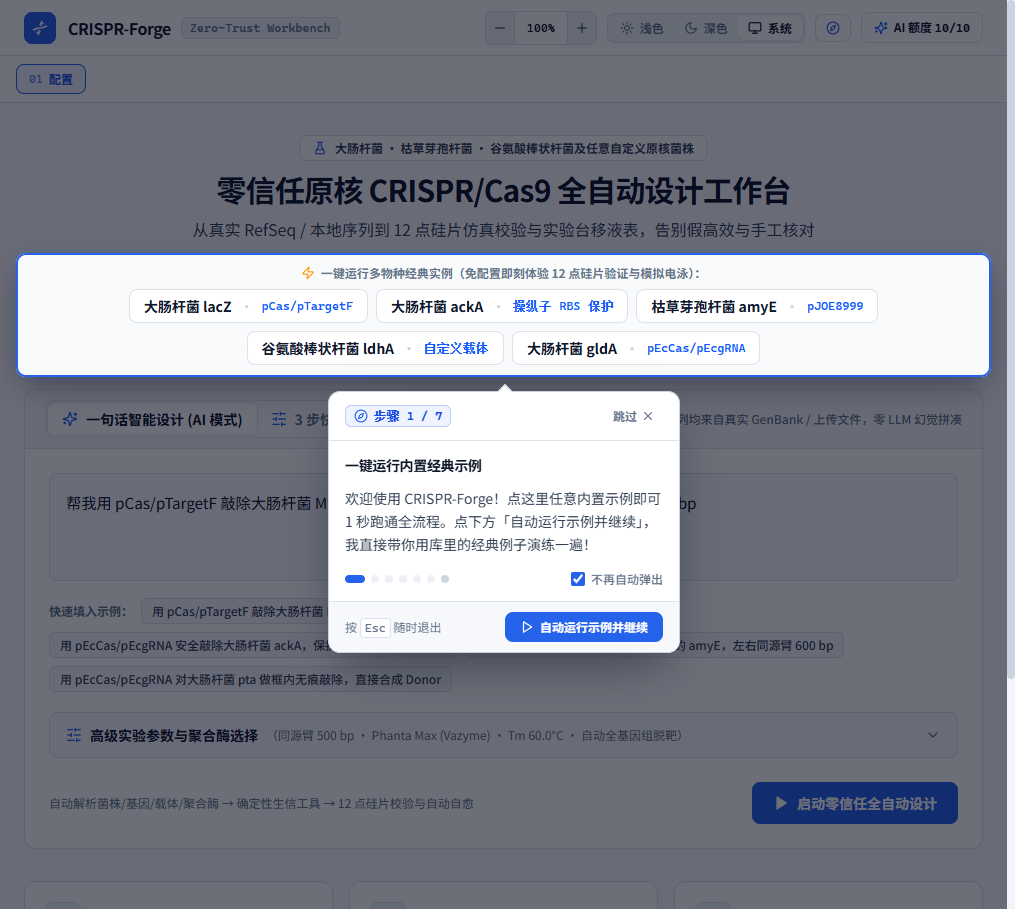
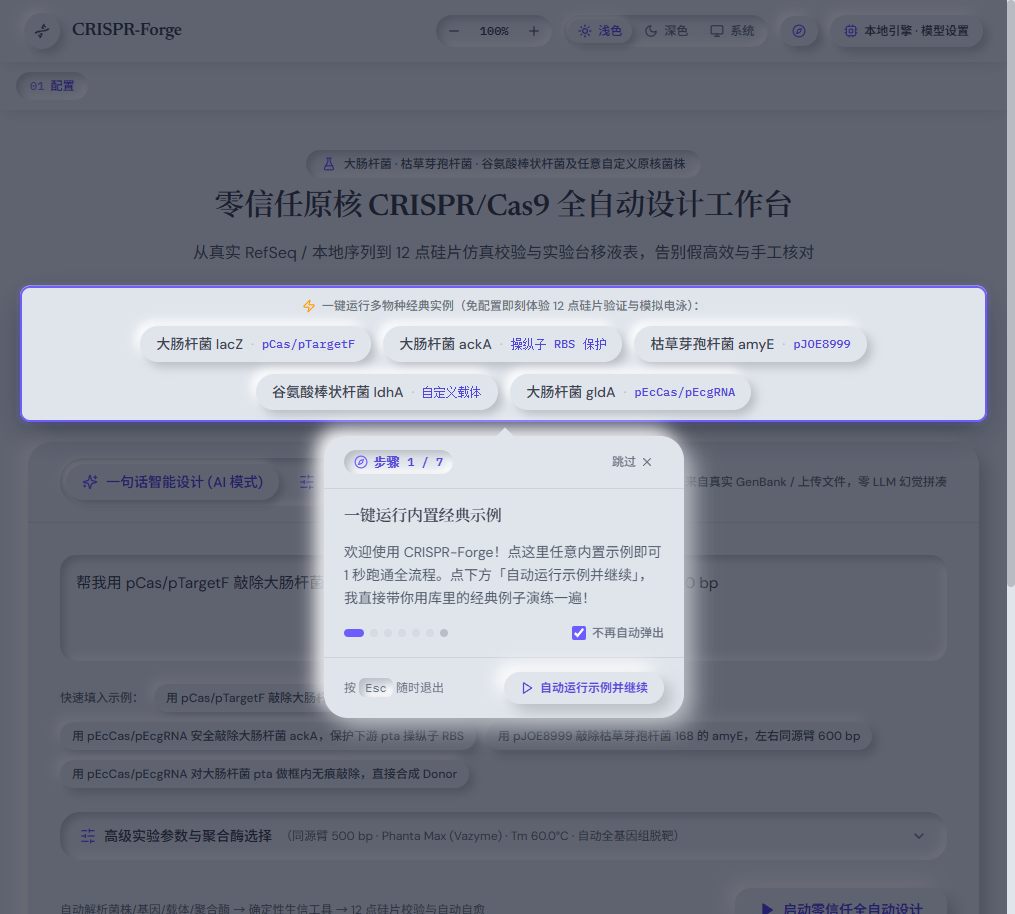
docs: refresh README and Day/Night Tactile Soft-UI screenshots

diff --git a/README.md b/README.md
@@ -25,59 +25,45 @@
 ### 4. 实验台零手算交付与可定制科研工作台
 - **15 款主流聚合酶可搜索大库 + 自定义聚合酶**：覆盖 Vazyme、TOYOBO、Takara、NEB、TransGen、Yeasen、Thermo 主力高保真与菌落酶，支持自定义品牌/延伸速率/变性与退火偏移，前后端联动精准计算反应程序；
 - **实时 NanoDrop 移液计算器**：填入实测浓度后实时换算微升数（支持等摩尔比 / 体积比切换），自动拦截 **`< 0.5 μL` 微量移液误差并给出精确预稀释比例**；
-- **交互式可视化与一键交付**：1×–20× 光标锚点平滑缩放/拖拽基因座图谱 + UV 模拟电泳胶图 + 一键导出 4 份带注释 `.gb` 图谱、引物订购 `.xlsx`、打印版 `.md` 文档与 `.zip` 完整实验包；
-- **高度自由的界面体验**：首次打开自动弹出**实时分步聚光灯指引**（顶栏指南针图标随时可重开），支持 **浅色（Cobalt）/ 深色（Obsidian）/ 跟随系统** 三态主题切换，以及 **`84%–120%` 按 `2%` 步进 / `1%` 无级滑块** 的细粒度字号调节。
-
----
-
-## 系统架构
-
-```mermaid
-flowchart TD
-    U["用户 / 外部 AI 客户端"] --> UI["Next.js 15 科研工作台 (浅色钴蓝 / 深色曜石)"]
-    U --> MCP["MCP Server (stdio)"]
-    UI --> API["FastAPI + SSE 进度流 + 免费额度门控"]
-    MCP --> REG["确定性生物工具注册表"]
-    API --> EXTRA["辅助解析服务 (RefSeq 菌株检索 / 空白载体 .gb 解析)"]
-    API --> ORCH["OpenAI 兼容自愈 Agent / 零 Key 确定性引擎"]
-    ORCH --> REG
-    REG --> K1["多物种基因组溯源 + 自动全基因组缓存"]
-    K1 --> K2["靶点筛选 + 载体规则排雷 + 同源臂与验证引物设计"]
-    K2 --> V["12 点零信任硅片仿真验证门"]
-    V -- "FAIL + repair_hint (最多 3 轮自愈)" --> ORCH
-    V -- "PASS" --> W["15+ 聚合酶动态移液计算器 + .gb / .xlsx / .zip 导出"]
-```
+- **交互式可视化与一键交付**：`1×–20×` 缩放/拖拽基因座图谱 + UV 模拟琼脂糖凝胶电泳 + 一键导出 4 份带注释 `.gb` 图谱、引物订购单 `.xlsx`、打印版 `.md` 文档与 `.zip` 完整实验包；
+- **日间 / 夜间统一新拟物工作台（Day & Night Tactile Soft-UI）**：采用浅色黏土浮雕（`#e0e5ec`）与深色哑光炭灰浮雕（`#1e222b`）双态立体软 UI，搭配 `Newsreader / Noto Serif SC`、`DM Sans / Noto Sans SC` 与 `IBM Plex Mono` 排版；提供左侧可折叠工作台大纲（`01`–`07` 模块与实时状态角标）、`浅色 / 深色 / 系统` 三态主题切换、顶栏 **「新手引导」** 聚光灯教程，以及 **`84%–120%` 按 `2%` 步进 / `1%` 无级滑块** 的细粒度字号调节。
 
 ---
 
 ## 完整使用说明（图文分步指引）
 
 ### 第 1 步：开屏交互指引与一键示例体验
-首次进入 [**https://crispr-forge.onrender.com/**](https://crispr-forge.onrender.com/) 时，系统会在页面对应位置自动弹出分步聚光灯指引（点击顶部指南针按钮可随时重开）。你可以直接点击卡片内的 **「自动运行示例并继续」**，立即使用库内置典型案例跑通完整流程；也可直接在首页输入框用一句话描述目标菌株、基因与载体系统。
+首次进入 [**https://crispr-forge.onrender.com/**](https://crispr-forge.onrender.com/) 时，系统会在页面对应位置自动弹出 7 步聚光灯指引（点击顶栏 **「新手引导」** 按钮可随时重开）。你可以直接点击卡片内的 **「自动运行示例并继续」**，立即使用库内置多物种经典案例跑通完整流程；也可直接在首页输入框用一句话描述目标菌株、基因与载体系统。
 
-![步骤 1：开屏分步聚光灯指引与内置经典示例](docs/screenshots/step1_onboarding_tour.png)
+![步骤 1：浅色新拟物首页、多物种快捷示例与 7 步聚光灯新手引导](docs/screenshots/step1_onboarding_tour.png)
 
 ### 第 2 步：菌株检索 / 上传、载体体系与高级参数配置
-结果生成后顶部表单会自动收敛为单行摘要，点击 **「修改参数 / 新建设计」** 即可切换至 **3 步快捷配置 / 上传序列**：
+结果生成后顶部表单会自动收敛为单行摘要，点击 **「修改参数 / 新建设计」** 即可切换至 **「3 步快捷配置 / 上传序列」**，并通过左侧工作台大纲栏在 `01`–`07` 各模块间快速跳转：
 - **菌株与基因**：输入中英文菌株名或 RefSeq 编号进行模糊联想，或切至上传模式拖入本地 `.gb / .fasta`；
 - **载体选择与自定义识别**：选用内置高频载体，或点选 **「自定义质粒」** 并拖入空白载体 `.gb` 文件自动提取克隆位点、抗性与验证引物并保存至本地常用库；
-- **高级参数与试剂库**：展开高级选项面板，在 15 款聚合酶（如 `KOD One`、`Phanta Max`）中快速搜索选择或添加自定义酶，并用滑块精确设定同源臂长度与边界保护策略。
+- **高级参数与试剂库**：展开 **「高级实验参数与聚合酶选择」**，在 15 款聚合酶（如 `KOD One`、`Phanta Max`）中快速搜索选择或添加自定义酶，并用精细滑块设定单侧同源臂长度、目标引物退火 Tm、菌落 PCR 最小条带差与全基因组脱靶索引策略。
 
-![步骤 2：载体体系选择、15 款聚合酶与同源臂参数滑块](docs/screenshots/step2_config_and_reagents.png)
+![步骤 2：载体体系卡片、15 款聚合酶选择与高级实验参数滑块](docs/screenshots/step2_config_and_reagents.png)
 
-### 第 3 步：12 点核验、交互式基因座图谱与 UV 模拟凝胶电泳
-运行完成后，顶部展示 12 项核验总览与 AI 解读摘要；在结果区可查看：
-- **可缩放基因座图谱**：支持 `Ctrl + 滚轮`（或开启滚轮直缩）、左键拖拽平移与底部概览条快速定位，悬停即可查看目的基因、`RBS / 安全保护区`、左右同源臂、切点及外侧验证引物坐标；
-- **UV 模拟琼脂糖凝胶电泳**：同屏直观比对 `M`、同源臂、拼接产物、野生型（`WT`）与突变体（`KO`）预期条带大小及条带差；在候选靶点列表切换不同方案时，图谱与电泳条带会同步重验刷新。
+### 第 3 步：可缩放基因座图谱与 UV 模拟凝胶电泳
+进入 `04 基因座与电泳` 视图，左侧图谱与右侧模拟胶图同屏联动：
+- **交互式可缩放基因组图谱**：提供 `全景 1×`、`聚焦敲除区`、`聚焦 Cas9 切点` 快捷定位，支持 `Ctrl + 滚轮`（或开启滚轮直缩）、左键拖拽平移与底部缩略导航条，悬停可查看目的基因、`RBS / 安全保护区`、左右同源臂、切点及外侧验证引物坐标；
+- **UV 模拟琼脂糖凝胶电泳**：保留暗场 `UV 302 nm · GelRed` 透射仿真腔体，同屏直观比对 `M`、`LA`、`RA`、`Donor`、`WT`、`KO` 与 `Int` 7 泳道条带大小、条带差及阳性敲除判读标准。
 
 ![步骤 3：可缩放基因座图谱、引物标尺与 7 泳道 UV 模拟凝胶电泳](docs/screenshots/step3_locus_and_gel.png)
 
 ### 第 4 步：实时移液换算、红色微量警戒与一键交付导出
-向下滚动至实验台移液计算器，填入胶回收或质粒实测浓度后即可切换等摩尔比 / 体积比模式并实时刷新反应体积：
-- **微量移液红标警报**：一旦任一组分所需体积 `< 0.5 μL`，页面会立即亮起红色预稀释警报并给出精确稀释方案，同时在顶部导航条对应区块显示 `!N` 红色计数角标防止漏看；
-- **多格式一键交付**：通过底部悬浮导出栏可一键下载含全套文件的 `.zip` 实验包、`.xlsx` 引物订购表、4 份带注释 SnapGene `.gb` 图谱及打印版 `.md` 文档。
+定位至 `06 NanoDrop移液` 实验台计算器，填入胶回收或质粒实测浓度后即可在 **「等摩尔比模式」** 与 **「经验体积比模式」** 间切换并实时刷新反应体积：
+- **微量移液红标警报**：一旦任一组分所需体积 `< 0.5 μL`，系统会立即亮起高对比度珊瑚红预稀释警报并给出精确稀释方案，同时在左侧大纲栏对应区块显示 `!N` 红色计数角标防止漏看；
+- **多格式一键交付**：通过底部悬浮导出栏可一键下载含全套文件的 `.zip` 实验包、`.xlsx` 引物订购单、4 份带注释 SnapGene `.gb` 图谱及打印版 `.md` SOP 文档。
 
-![步骤 4：实时 NanoDrop 移液计算器、微量红标警戒与多格式导出栏](docs/screenshots/step4_pipetting_and_export.png)
+![步骤 4：实时 NanoDrop 移液计算器、微量红标警戒与单行导出栏](docs/screenshots/step4_pipetting_and_export.png)
+
+### 第 5 步：深色模式（Night Tactile Soft-UI）与 12 点零信任认证
+点击顶栏主题切换器的 **「深色」** 按钮可切换至夜间软 UI 界面（`#1e222b` 哑光炭灰基底与对称高光/暗影浮雕），兼顾暗光实验室环境阅读与长时核验操作：
+- **12 点确定性硅片核验明细**：在 `03 12点零信任认证` 模块展示序列 `SHA-256` 溯源摘要、基于 12 项确定性结果生成的专家解读简报，以及可逐条展开查看「防范什么实验坑？」的核验卡片矩阵。
+
+![步骤 5：深色模式下的 12 点零信任认证与科学专家防坑摘要](docs/screenshots/step5_dark_mode_verification.png)
 
 ### 模型额度与自带 Key（BYOK）配置
 - **零 Key 免费运行**：不配置任何大模型 Key 时，全部确定性序列检索、靶点与引物计算、12 点校验、移液换算与文件导出均 100% 免费不限次数；
@@ -95,12 +81,12 @@ flowchart TD
 
 | 任务 ID | 目标基因 | 载体体系 | 脱靶范围 | 12 点通过 | 阻断项 | 预期条带 WT / KO (bp) | 耗时 (ms) |
 | :--- | :--- | :--- | :--- | :---: | :---: | :---: | :---: |
-| `T01_Ecoli_lacZ_pTargetF` | `lacZ` | `pCas/pTargetF` | `whole_genome` | 11/12 | **0** | `4495 / 1420` | 1459 |
-| `T02_Ecoli_ackA_pEcgRNA` | `ackA` | `pEcCas/pEcgRNA` | `whole_genome` | 12/12 | **0** | `2692 / 1489` | 989 |
-| `T03_Ecoli_pta_KeioInFrame` | `pta` | `pEcCas/pEcgRNA` | `whole_genome` | 12/12 | **0** | `3527 / 1412` | 945 |
-| `T04_Ecoli_gldA_RevStrand` | `gldA` | `pEcCas/pEcgRNA` | `whole_genome` | 12/12 | **0** | `2440 / 1336` | 960 |
-| `T05_Bsubtilis_amyE_pJOE8999` | `amyE` | `pJOE8999` | `whole_genome` | 11/12 | **0** | `3697 / 1717` | 1582 |
-| `T06_Cglutamicum_ldhA_Custom` | `ldhA` | `custom` | `whole_genome` | 12/12 | **0** | `2412 / 1467` | 1741 |
+| `T01_Ecoli_lacZ_pTargetF` | `lacZ` | `pCas/pTargetF` | `whole_genome` | 11/12 | **0** | `4495 / 1420` | 1382 |
+| `T02_Ecoli_ackA_pEcgRNA` | `ackA` | `pEcCas/pEcgRNA` | `whole_genome` | 12/12 | **0** | `2692 / 1489` | 696 |
+| `T03_Ecoli_pta_KeioInFrame` | `pta` | `pEcCas/pEcgRNA` | `whole_genome` | 12/12 | **0** | `3527 / 1412` | 685 |
+| `T04_Ecoli_gldA_RevStrand` | `gldA` | `pEcCas/pEcgRNA` | `whole_genome` | 12/12 | **0** | `2440 / 1336` | 688 |
+| `T05_Bsubtilis_amyE_pJOE8999` | `amyE` | `pJOE8999` | `whole_genome` | 11/12 | **0** | `3697 / 1717` | 1184 |
+| `T06_Cglutamicum_ldhA_Custom` | `ldhA` | `custom` | `whole_genome` | 12/12 | **0** | `2412 / 1467` | 1314 |
 
 ---
 
@@ -130,12 +116,13 @@ docker compose up -d --build
 {
   "mcpServers": {
     "crispr-forge": {
-      "command": "C:\\Users\\16499\\.gemini\\antigravity\\scratch\\crispr-forge\\backend\\.venv\\Scripts\\python.exe",
+      "command": "<path-to-crispr-forge>\\backend\\.venv\\Scripts\\python.exe",
       "args": ["-m", "crispr_forge.agent.mcp_server"]
     }
   }
 }
 ```
+*(macOS / Linux 环境请将 `command` 替换为 `<path-to-crispr-forge>/backend/.venv/bin/python`)*
 
 ---
 
